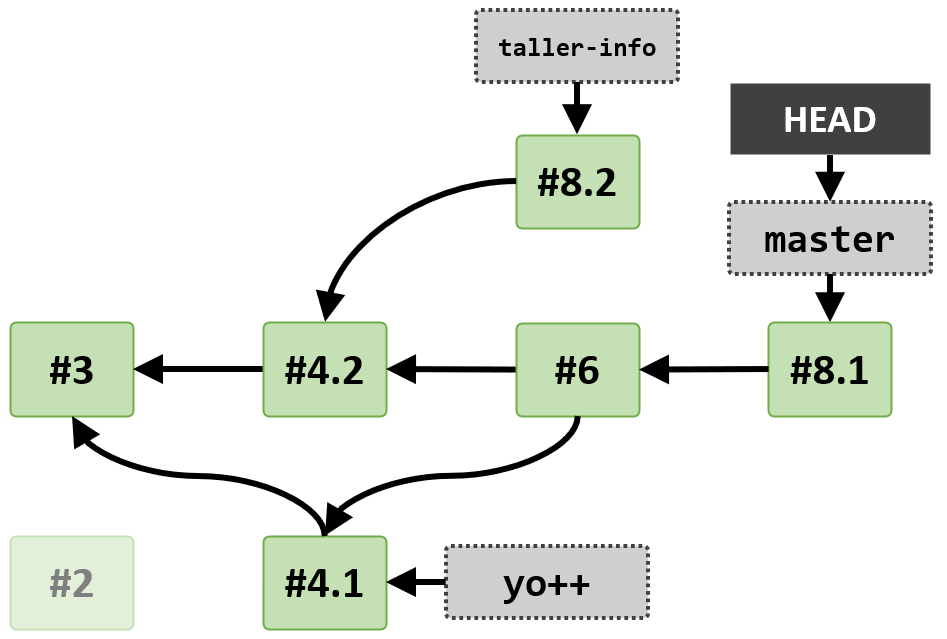
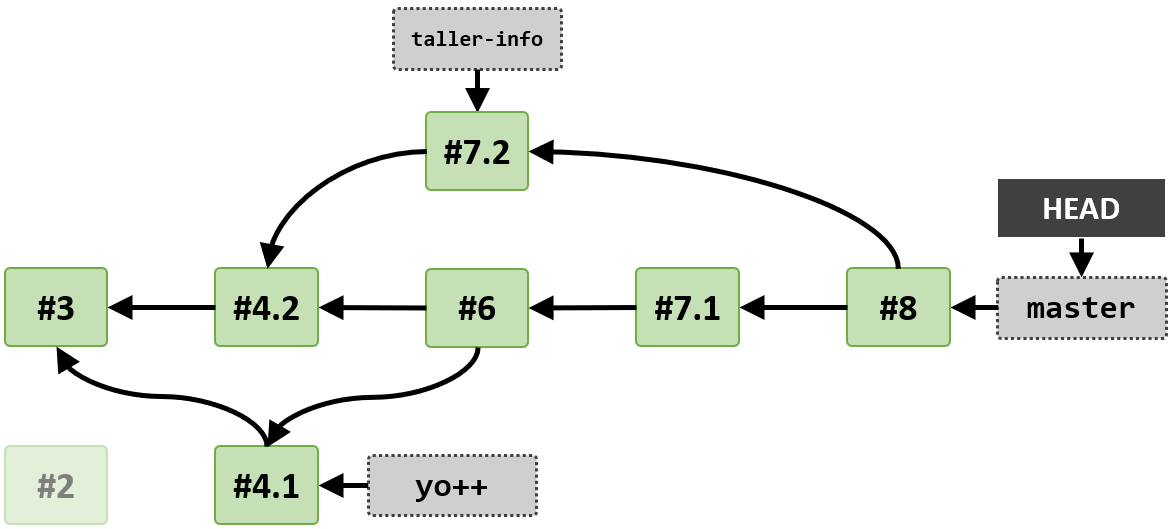
Remove 'absolute navigation' exercise

diff --git a/README.md b/README.md
@@ -57,7 +57,7 @@ Ahora regresa al primer commit del repo usando `git checkout master`. Crea otra 
 </p>
 
 
-| ℹ | Inspecciona el estado actual del repositorio con: `git log`. Observa que el repo ahora contiene tres commits, uno apuntado por `master`, otro por `taller-info` y el tercero apuntado por `yo++`.
+| ℹ | Inspecciona el estado actual del repositorio con:<br> `git log --oneline --all --graph`<br>Observa que el repo ahora contiene tres commits, uno apuntado por `master`, otro por `taller-info` y el tercero apuntado por `yo++`.
 |---|---|
 
 ❓ ¿Desde la rama `taller-info`, el archivo `.txt` con tu nombre tiene contenido o está vacío? ¿Por qué crees que es así?
@@ -74,17 +74,7 @@ Ahora, permaneciendo en `master` incorpora los cambios de `taller-info` en `mast
   <img width=350px src="./images/6.png" />
 </p>
 
-## #7 Navegación absoluta entre commits
-
-Obtén una clara visión del repositorio con el siguiente comando:
-
-```bash
-git log --oneline --all --graph
-```
-
-Muévete al primer commit del repo utilizando el hash del commit. Ahora regresa el commit más reciente, haciendo checkout a `master`.
-
-## #8 Aparición de conflictos al realizar merge
+## #7 Aparición de conflictos al realizar merge
 
 En `master`, modifica la primera línea del archivo `README.md`, agrega los cambios al staging area y realiza un commit.
 
@@ -93,29 +83,29 @@ Ahora colócate en la rama `taller-info`, modifica la primera línea de `README.
 Regresa a `master`, e incorpora los cambios de `taller-info` mediante un merge. Git te debería reportar que ha ocurrido un conflicto que requiere ser solucionado manualmente.
 
 <p align="center">
-  <img width=380px src="./images/8.png" />
+  <img width=380px src="./images/7.png" />
 </p>
 
 ❓ ¿Por qué ocurrió un conflicto en este caso?
 
 
-## #9 Resolución de conflictos de merge
+## #8 Resolución de conflictos de merge
 
 En tu editor de texto preferido, abre el archivo con el conflicto (`README.md`), elimina los marcadores de conflicto y edita el contenido de acuerdo a cómo deseas preservar el archivo.
 
 Una vez terminada la edición en el editor de texto, agrega los cambios al staging area y ejecuta `git merge --continue`.
 
 <p align="center">
-  <img width=550px src="./images/9.png" />
+  <img width=550px src="./images/8.png" />
 </p>
 
-## #10 Primer repositorio de GitHub
+## #9 Primer repositorio de GitHub
 
 Crea un repositorio público en GitHub, con el nombre de `<tu-nombre>-intro-git`, p. ej. `pablo-intro-git`.
 
 ❓ ¿Cómo es GitHub diferente a Git?
 
-## #11 Sube tus cambios a GitHub
+## #10 Sube tus cambios a GitHub
 
 Empuja los cambios de tu rama `master` a GitHub, para que los demás también puedan ver tu repo.
 
